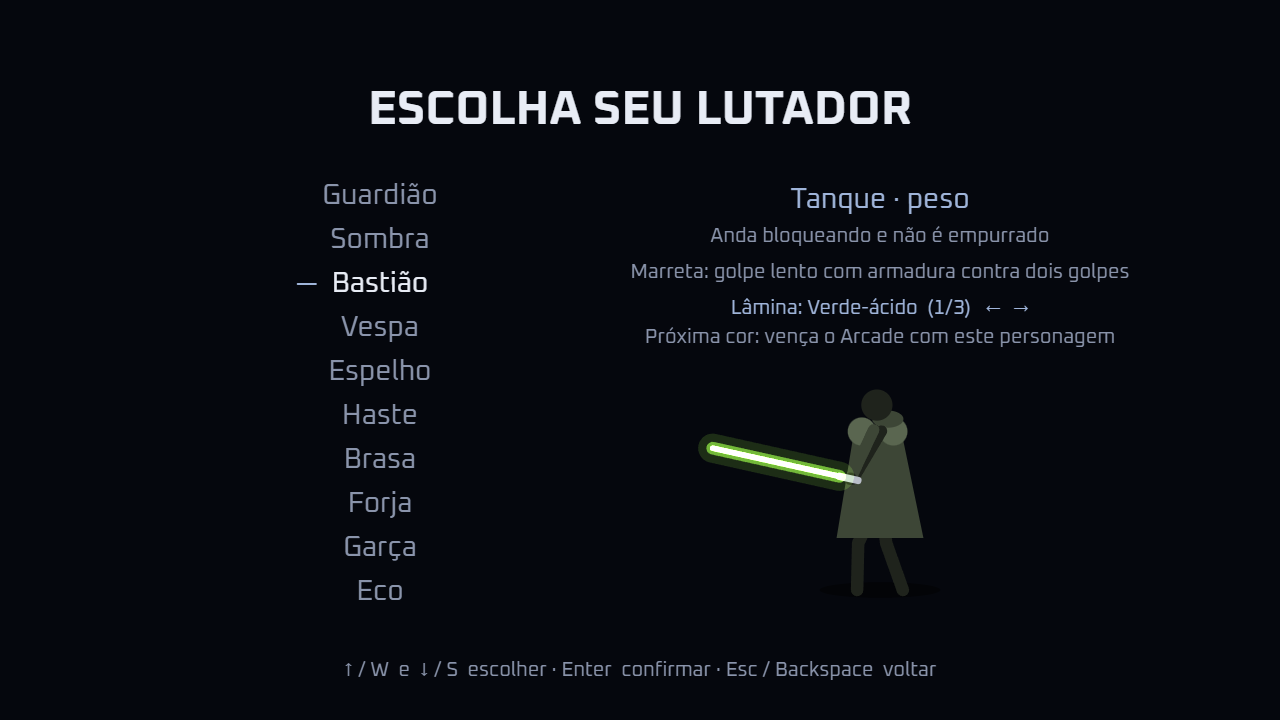
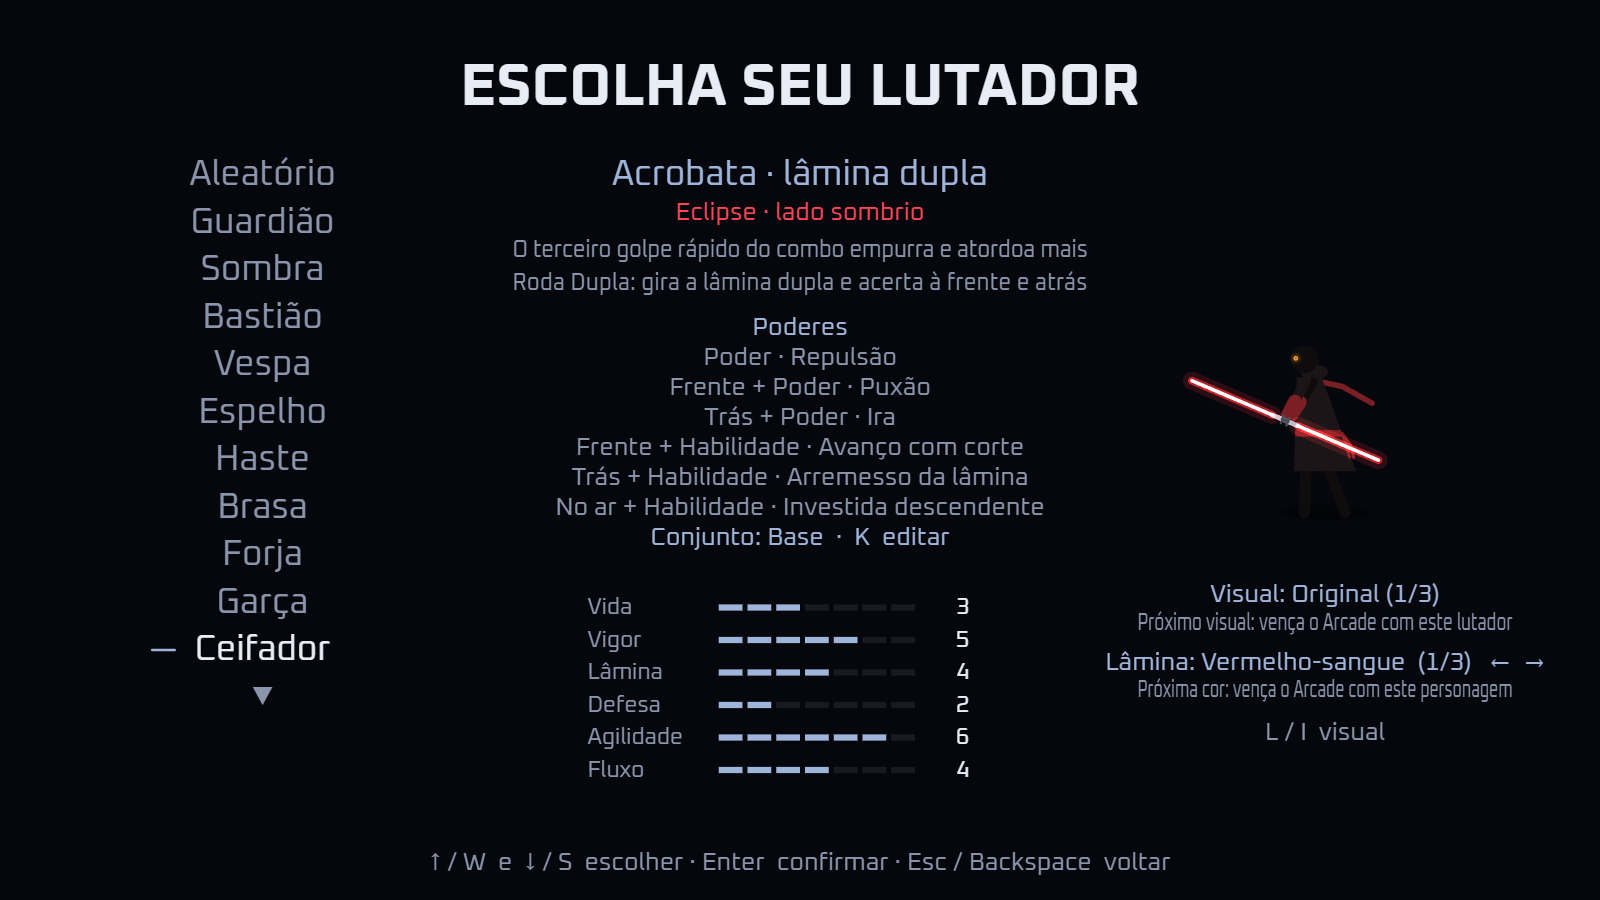
docs: refresh the README screenshots and feature list for 3.0

diff --git a/README.md b/README.md
@@ -13,22 +13,24 @@ Jogo 2D de duelo de lâminas de energia para navegador, feito com HTML5, CSS3, J
 
 > Projeto acadêmico, sem fins comerciais, inspirado nos duelos de sabre de Star Wars. Não é um produto oficial e não tem afiliação com a Lucasfilm ou a Disney. O código usa termos neutros e não inclui assets oficiais, para que o jogo possa receber uma identidade própria no futuro (ver [DESIGN.md](DESIGN.md#propriedade-intelectual)).
 
-![Duelo na Mina de Cristal](media/duel-crystal-mine.png)
+![O Soberano lança Raio contra o Guardião na Cidadela do Eclipse](media/duel-lightning-eclipse.png)
 
 | | |
 | --- | --- |
+| ![Ceifador e Garça nas Salinas de Vidro](media/duel-salt-flats.png) | ![Bastião e Espelho no Santuário Alagado](media/duel-sanctuary.png) |
 | ![Menu principal](media/menu.png) | ![Seleção de personagem](media/character-select.png) |
-| ![Duelo no Telhado Neon](media/duel-rooftop.png) | |
+| ![Diálogo da História no Santuário Alagado](media/story-dialogue.png) | |
 
 ## O que tem no jogo
 
-- **10 personagens** com atributos (seis notas de 1 a 7; os secretos chegam a 8, 9 e 10), golpes, habilidade, alinhamento e IA próprios: Guardião, Sombra, Bastião, Vespa, Espelho, Haste, Brasa, Forja, Garça e Eco. Mais um chefe no Arcade e na Sobrevivência e **três personagens secretos**, liberados pela História ou por um segredo na tela de abertura.
-- **6 arenas** desenhadas por código: Plataforma de Refino, Santuário Alagado, Mina de Cristal, Telhado Neon, Anel Orbital e Floresta Lumínica.
-- **Combate por timing**: rápido, forte, bloqueio, parry e parry perfeito com riposta, empurrão, esquiva (dash) e esquiva de precisão, sequências, golpe aéreo, pulo duplo, dash aéreo e habilidade de cada personagem.
-- **Poderes do Fluxo** (opcionais): medidor próprio, catálogo de Fluxo comum, Aurora e Eclipse, loadouts por personagem e resistência pela diferença de nível. Inclui projéteis (como o Corte de Fluxo, que um parry perfeito devolve), efeitos de estado, Absorção, Dreno, Truque Mental e o Arsenal Telecinético, além de poderes de custo alto sinalizados no medidor: Tempestade e Telecinese em Massa (raios ou meteoros marcados no chão), Fratura, Repulsão Suprema, Santuário e Ira.
-- **Modos**: **História** (campanha com protagonista criado e evoluído pelo jogador, diálogos, dois finais e um duelo secreto), Duelar (contra a IA, em Fácil, Normal ou Difícil), Arcade, Sobrevivência, 2 Jogadores no mesmo teclado ou com dois controles, Tutorial, Desafio de parry e Treino (boneco configurável, gravação e reprodução de inputs, hitboxes).
-- **Apresentação**: abertura com a lâmina acendendo, replay em câmera lenta do golpe final, música e som sintetizados que reagem à luta, cores de lâmina e trajes desbloqueáveis, teclas configuráveis e suporte a gamepad.
-- **Celular**: controles de toque (joystick e botões desenhados no jogo), menus por toque, paisagem com safe areas e efeitos reduzidos automáticos.
+- **11 personagens** com atributos (seis notas de 1 a 7; os secretos chegam a 8, 9 e 10), golpes, habilidade, técnicas, alinhamento, peças de roupa e IA próprios: Guardião, Sombra, Bastião, Vespa, Espelho, Haste, Brasa, Forja, Garça, Ceifador (lâmina dupla) e Eco. Mais um chefe no Arcade e na Sobrevivência e **três personagens secretos** (Soberano, Ancião e o Predestinado, em duas variantes), liberados pela História ou por um segredo na tela de abertura.
+- **10 arenas** desenhadas por código, entre elas Santuário Alagado (com reflexo), Mina de Cristal, Telhado Neon, Salinas de Vidro, Convés em Voo, Cume Nevado e Cidadela do Eclipse.
+- **Combate por timing**: rápido, forte, bloqueio, parry e parry perfeito com riposta, empurrão, esquiva (dash) e esquiva de precisão, sequências, golpe aéreo, pulo duplo, dash aéreo, disputa de lâminas, exaustão e ferimentos, e finalizações no K.O.
+- **Técnicas de lâmina**: Giro, Avanço com corte, Arremesso da lâmina, Estocada, Corte ascendente, Rajada, Varredura e Investida descendente (no ar); duas técnicas que se cruzam terminam num choque.
+- **Poderes do Fluxo** (opcionais): medidor próprio, catálogo de Fluxo comum, Aurora e Eclipse, conjuntos por personagem (ou montados na seleção) e resistência pela diferença de nível. Inclui projéteis, efeitos de estado, Absorção, Dreno, Truque Mental, Arsenal Telecinético e poderes de custo alto sinalizados no medidor, como Tempestade, Telecinese em Massa, Fratura, Repulsão Suprema, Santuário e Ira.
+- **Modos**: **História** (campanha com protagonista criado e evoluído pelo jogador, rotas Aurora e Eclipse, diálogos, quatro finais e duelos secretos), Duelar (Fácil, Normal ou Difícil), Arcade, Sobrevivência, 2 Jogadores no mesmo teclado ou com dois controles, Tutorial, Treinos guiados, Desafio de parry, Treino (boneco configurável, gravação de inputs, hitboxes), Desafios com recorde, Galeria de poderes e Galeria da História.
+- **Apresentação**: abertura com a lâmina acendendo, replay em câmera lenta do golpe final, música e som sintetizados que reagem à luta, cores de lâmina e trajes desbloqueáveis, português e inglês, teclas configuráveis e suporte a gamepad.
+- **Celular e offline**: controles de toque (joystick e botões desenhados no jogo), menus por toque, paisagem com safe areas, efeitos reduzidos automáticos; depois do primeiro carregamento, o jogo abre sem conexão.
 
 ## Requisitos
 

diff --git a/ASSETS.md b/ASSETS.md
@@ -37,7 +37,7 @@ assets/
 | src/arenas/arenaData.js (saltFlats, skyDeck, snowPeak, eclipseCitadel) | cenário procedural | geometria original do projeto | MIT | Salinas de Vidro, Convés em Voo, Cume Nevado e Cidadela do Eclipse (2.14) desenhados por código; sem imagem externa |
 | assets/fonts/Oxanium.ttf | fonte | The Oxanium Project Authors (github.com/sevmeyer/oxanium), via github.com/google/fonts | SIL OFL 1.1 | Fonte variável; licença completa em assets/fonts/Oxanium-OFL.txt |
 | assets/fonts/Oxanium-OFL.txt | licença | The Oxanium Project Authors | SIL OFL 1.1 | Texto da licença distribuído junto com a fonte |
-| media/menu.png, media/character-select.png, media/duel-crystal-mine.png, media/duel-rooftop.png | captura de tela | capturas do próprio jogo (Chrome headless, 1280×720) | MIT | Usadas só no README; o jogo não carrega esses arquivos |
+| media/menu.png, media/character-select.png, media/story-dialogue.png, media/duel-lightning-eclipse.png, media/duel-salt-flats.png, media/duel-sanctuary.png | captura de tela | capturas do próprio jogo (Chrome headless, 1600×900, refeitas na 3.0) | MIT | Usadas só no README; o jogo não carrega esses arquivos |
 
 | assets/ui/icon-192.png, assets/ui/icon-512.png | ícone PNG | geometria original do projeto, Canvas 2D com tokens de themeConfig; duas lâminas cruzadas | MIT | Sem logo de franquia, tamanhos 192 e 512 |
 
